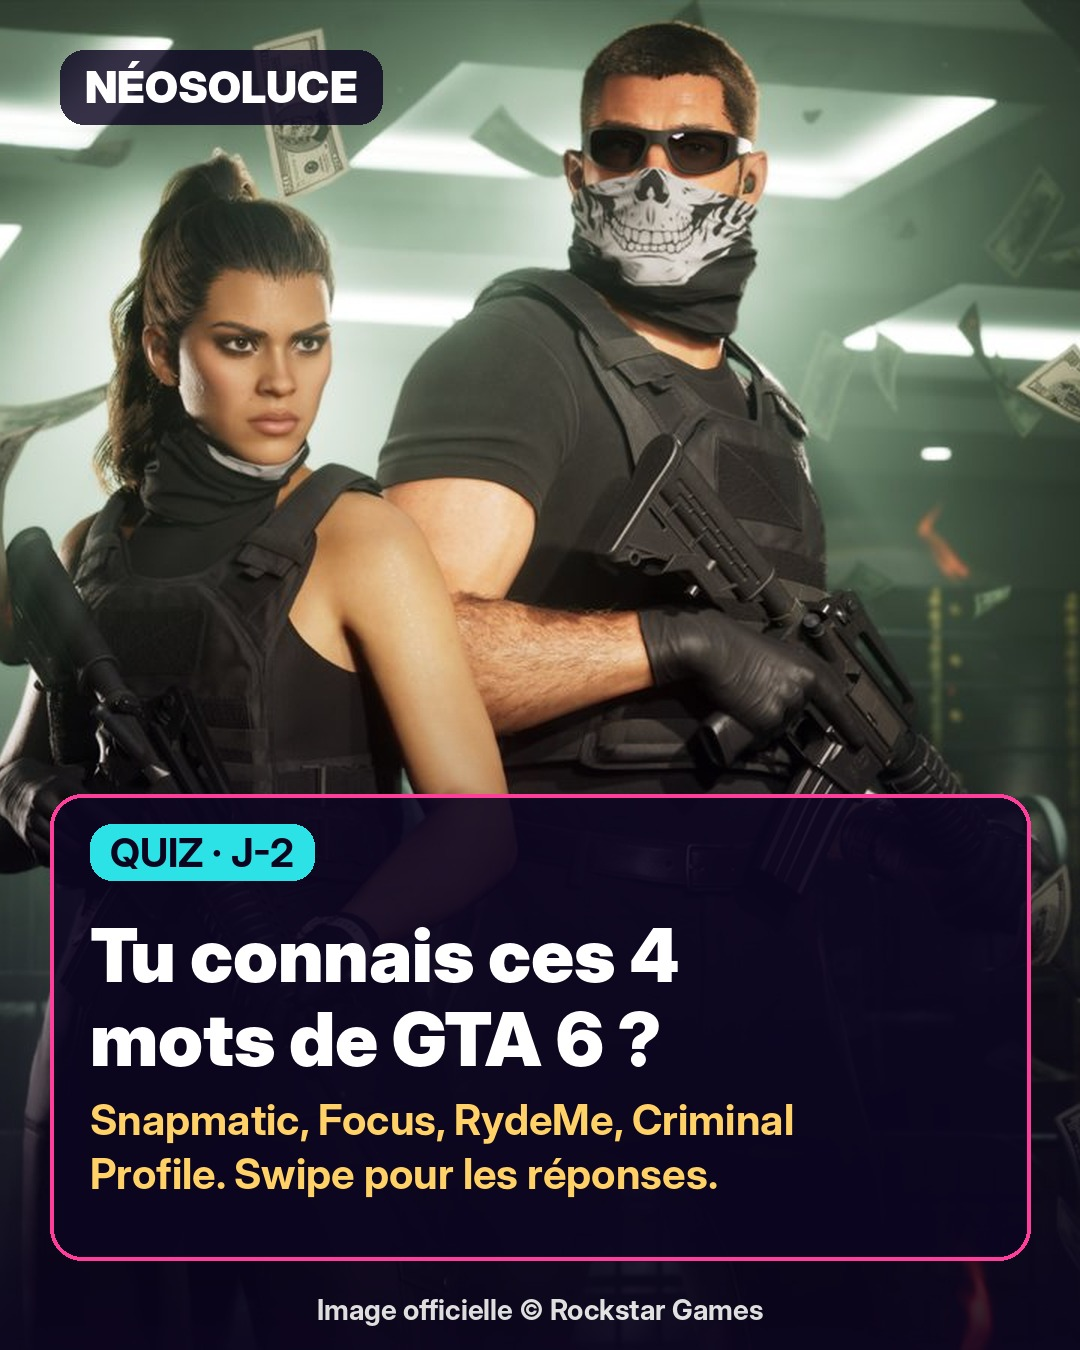
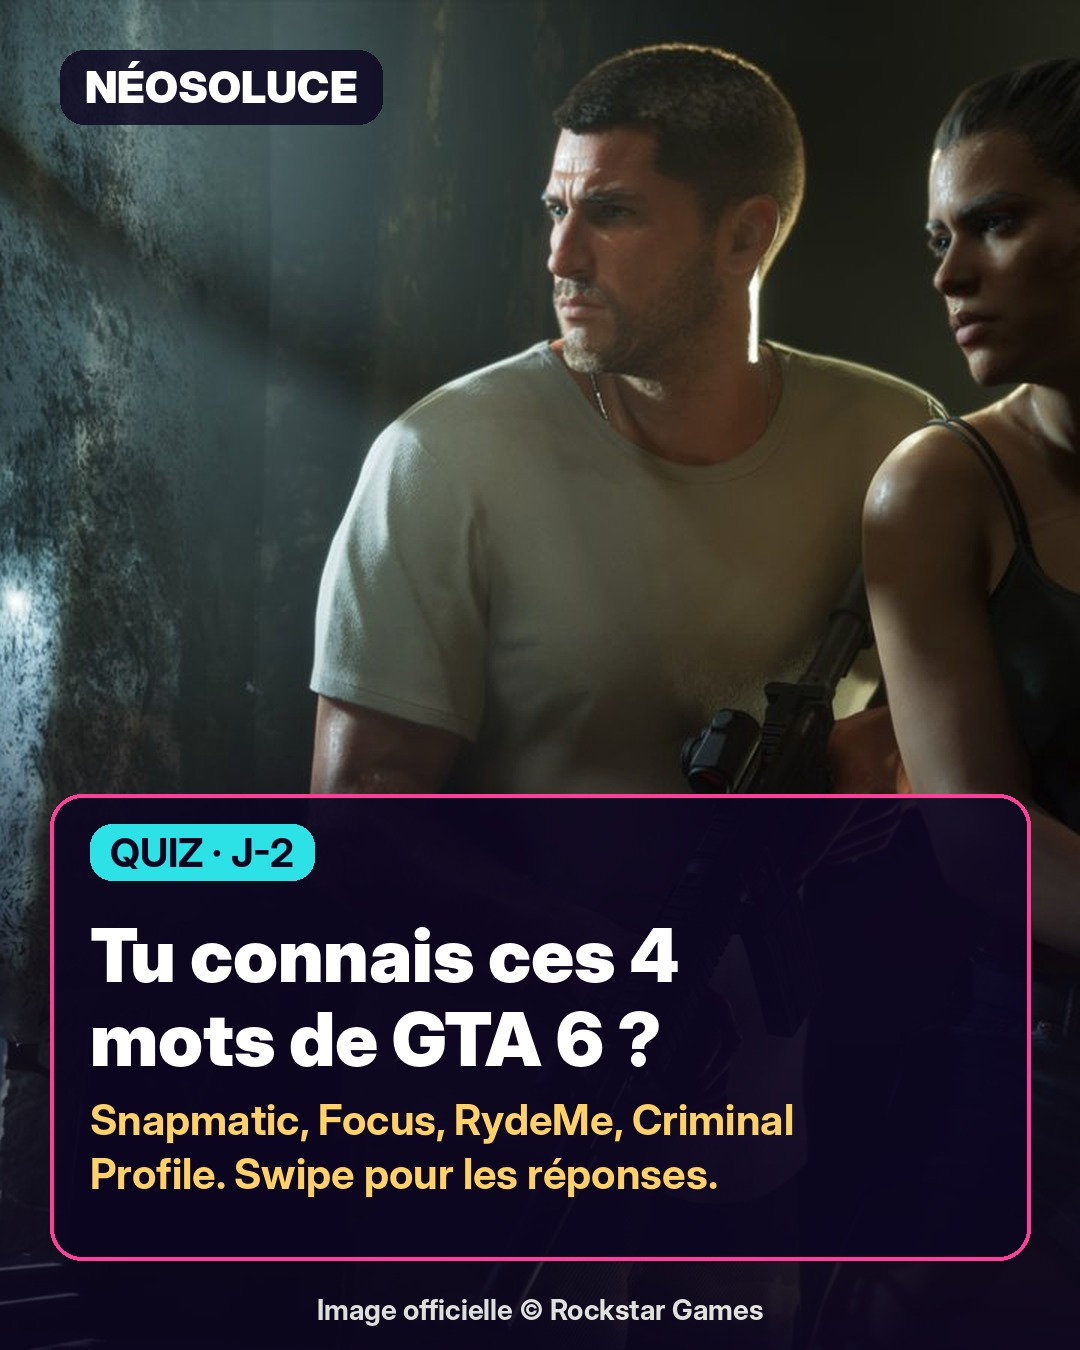
Réseaux : couverture du 17/11 refaite et règle anti-répétition des couvertures renforcée
Claude-Session: https://claude.ai/code/session_015g1Uv7ySLozZLHJDZ3dQAm

diff --git a/agents/3-reseaux.md b/agents/3-reseaux.md
@@ -9,7 +9,7 @@ Constat : 750 à 1 150 vues par carrousel TikTok, mais 0 clic vers le site. Un c
 5. Mesure : chaque jour, note dans le journal les visites venues de TikTok et d'Instagram (wpcom-jetpack-stats, référents) quand l'outil les donne ; sans clic après 5 posts avec boucle ouverte, changer d'angle.
 
 ## RÈGLE ANTI-DOUBLON (Noah, 07/11/2026 : s'applique à chaque carrousel)
-**Avant de créer un carrousel, lis reseaux/publie.md. Interdit : un sujet ou angle déjà traité, un fait déjà utilisé (sauf rappel explicite de la date de sortie), le même sujet que le Reel de Noah prévu le même jour ou la veille/le lendemain, la même image de couverture qu'une publication des 14 derniers jours. Après programmation, ajoute ta ligne au registre.**
+**Avant de créer un carrousel, lis reseaux/publie.md. Interdit : un sujet ou angle déjà traité, un fait déjà utilisé (sauf rappel explicite de la date de sortie), le même sujet que le Reel de Noah prévu le même jour ou la veille/le lendemain, la même image de couverture qu'une publication des 14 derniers jours. Vérifie dans officiel-utilisees.txt la PREMIÈRE image de chaque ligne des 14 derniers jours (y compris les lignes « p1 refaite ») : ta couverture doit être différente de toutes, et aussi des autres pages des 3 derniers carrousels. Jason_and_Lucia_02 est interdite en couverture jusqu'au 30/11 (refusée deux fois par Noah). Après programmation, ajoute ta ligne au registre.**
 - Le registre contient aussi le planning manuel de Noah (calendrier du 27/10 au 26/11 : Reels publiés par lui et carrousels du planning) : leurs sujets et leurs faits (identifiants de faits.json) sont interdits.
 - Choisis tes faits dans faits.json parmi ceux dont « utilise_le » est vide et qui ne figurent pas dans le registre.
 
